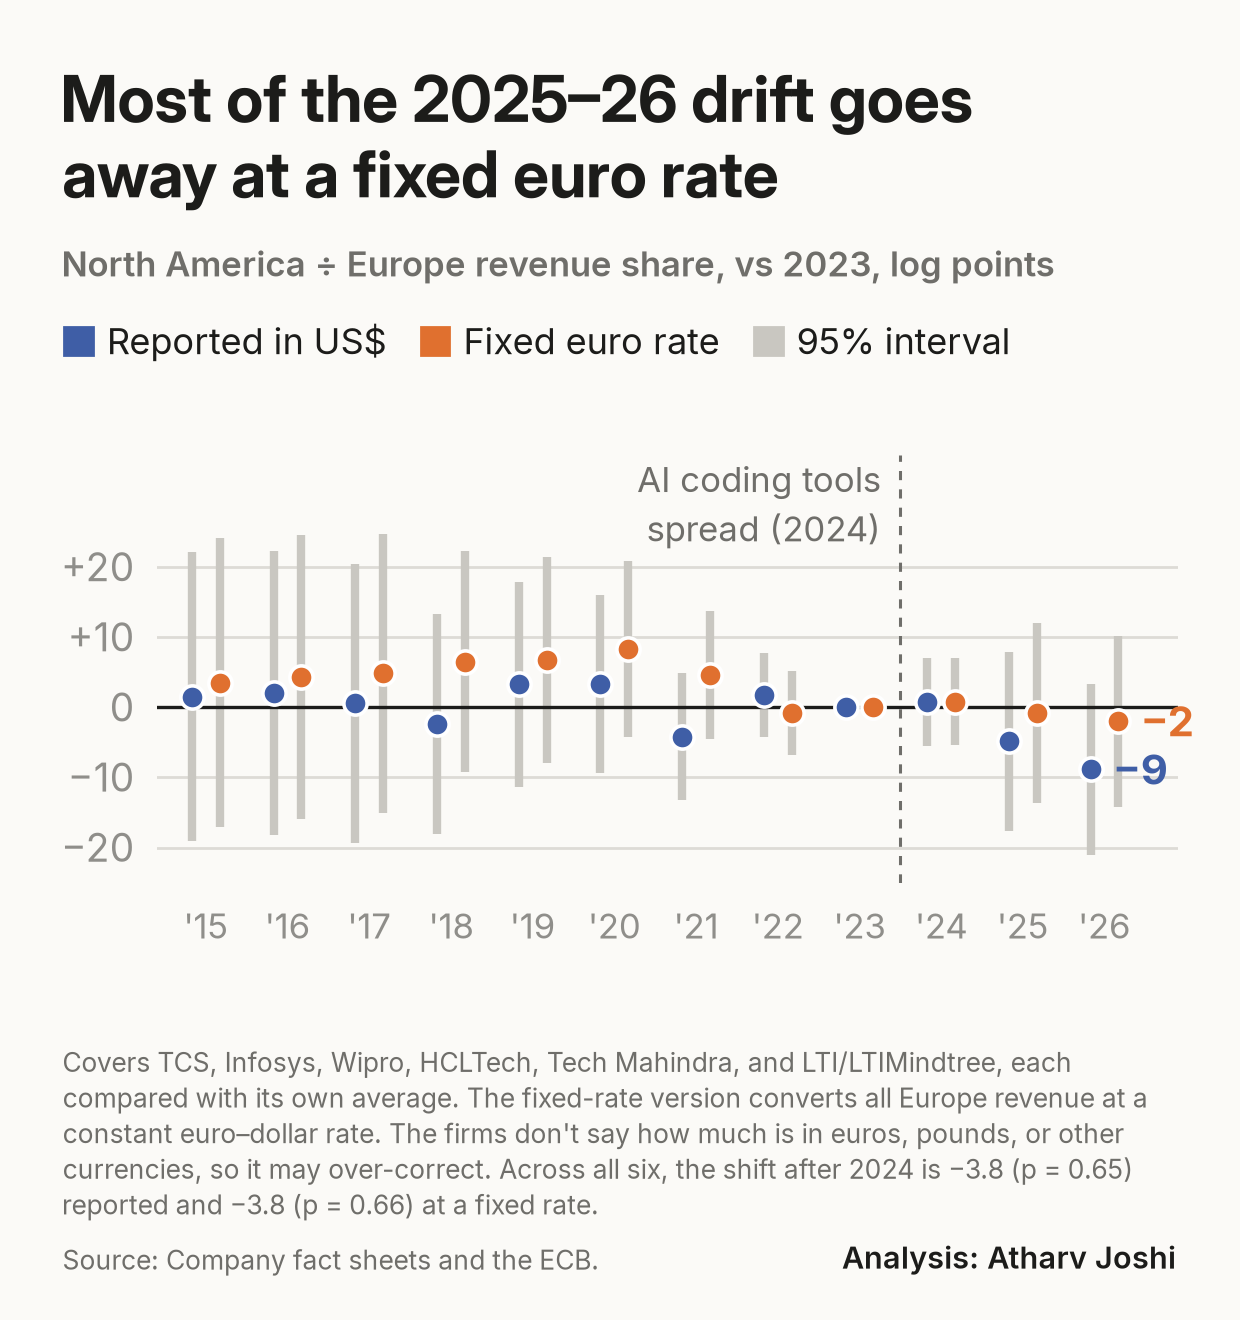
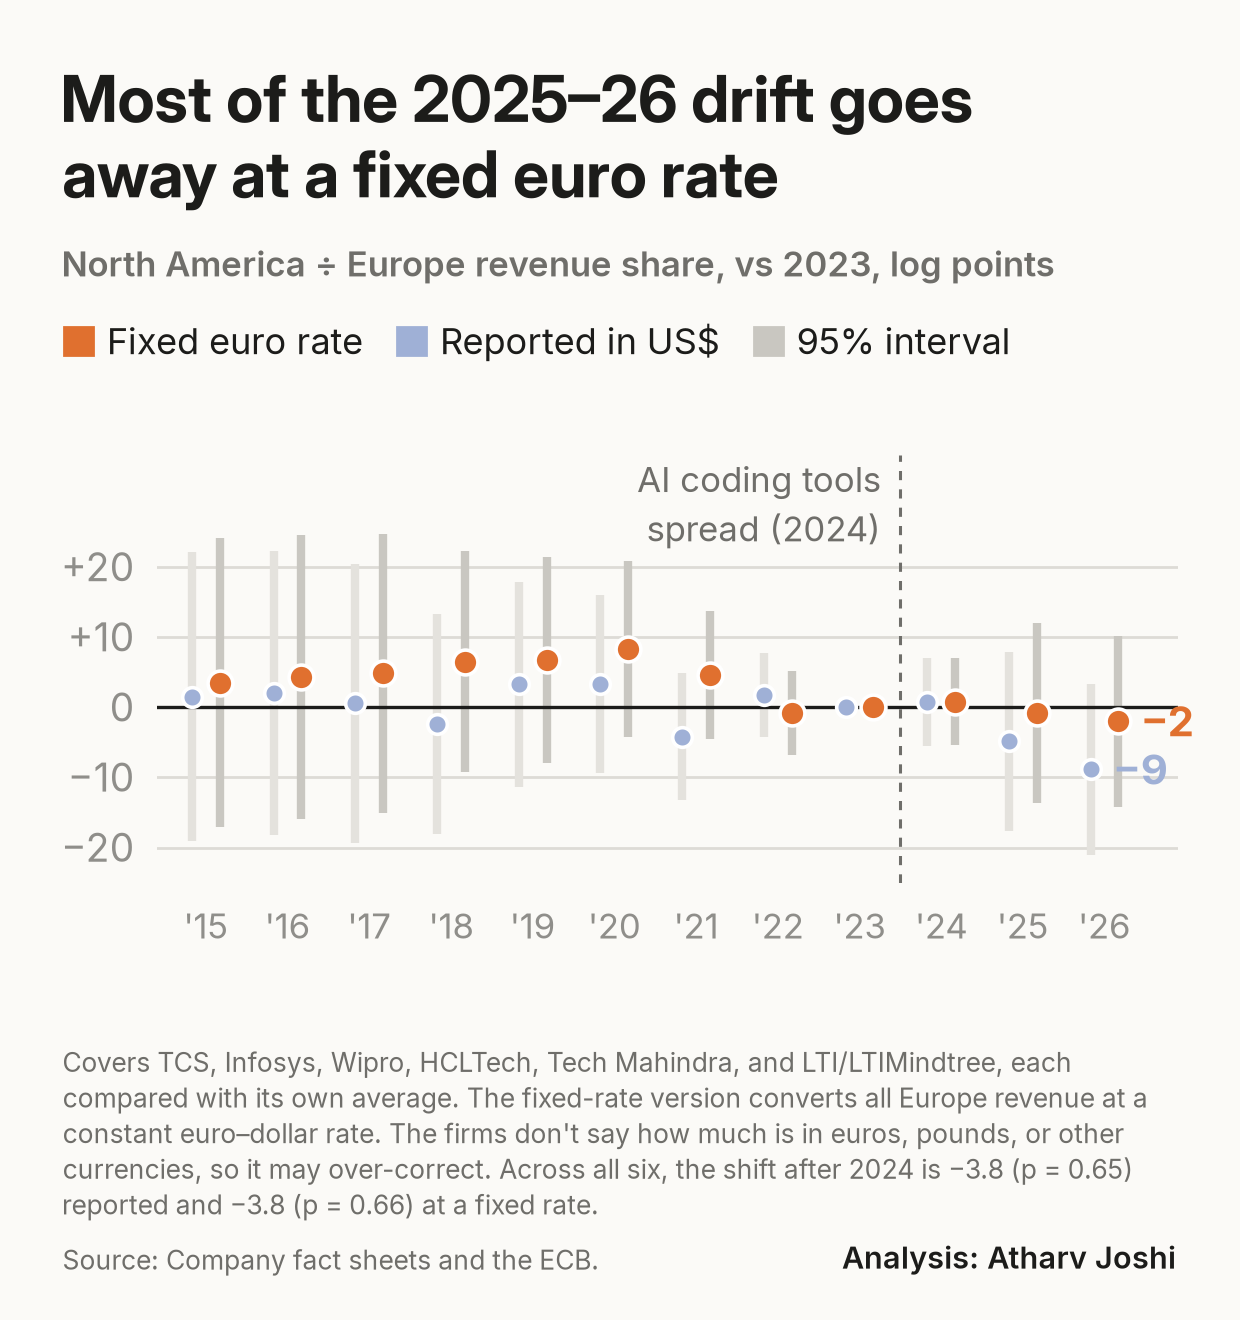
Chart 04: fixed euro rate as main series, reported US$ faded

diff --git a/src/14_ramp_charts.py b/src/14_ramp_charts.py
@@ -135,7 +135,8 @@ RC = pd.read_csv("outputs/h3_currency_regression.csv").query("spec == 'main (pos
 ex = Exhibit(height=6.6)
 ex.title([[("Most of the 2025–26 drift goes", INK)], [("away at a fixed euro rate", INK)]])
 ex.subtitle("North America ÷ Europe revenue share, vs 2023, log points")
-ex.legend([("Reported in US$", NAVY), ("Fixed euro rate", ORANGE), ("95% interval", "#c9c7c1")])
+FADED = "#9fb0d6"   # reported US$: kept for comparison, de-emphasized
+ex.legend([("Fixed euro rate", ORANGE), ("Reported in US$", FADED), ("95% interval", "#c9c7c1")])
 r0, r1 = RC.loc["reported US$"], RC.loc["all Europe in euros (main)"]
 ex.source("Covers TCS, Infosys, Wipro, HCLTech, Tech Mahindra, and LTI/LTIMindtree, each compared with its own average. "
           "The fixed-rate version converts all Europe revenue at a constant euro–dollar rate. The firms don't say how much "
@@ -144,15 +145,15 @@ ex.source("Covers TCS, Infosys, Wipro, HCLTech, Tech Mahindra, and LTI/LTIMindtr
            f"{r1.coef_log_pts:+.1f} (p = {r1.p:.2f}) at a fixed rate.").replace("-", "−"),
           "Source: Company fact sheets and the ECB.", credit=CREDIT)
 ax = ex.axes(left=0.13, right=0.95)
-for lab, color, off in [("reported US$", NAVY, -0.17), ("all Europe in euros (main)", ORANGE, 0.17)]:
+for lab, color, off, band, size in [("reported US$", FADED, -0.17, "#e4e2dd", 50), ("all Europe in euros (main)", ORANGE, 0.17, "#c9c7c1", 80)]:
     E = EC[EC.adjustment == lab]
-    ax.vlines(E.year + off, E.coef - 1.96 * E.se, E.coef + 1.96 * E.se, color="#c9c7c1", lw=3, zorder=1)
-    ax.scatter(E.year + off, E.coef, s=70, color=color, edgecolor="white", lw=1.3, zorder=3)
+    ax.vlines(E.year + off, E.coef - 1.96 * E.se, E.coef + 1.96 * E.se, color=band, lw=3, zorder=1)
+    ax.scatter(E.year + off, E.coef, s=size, color=color, edgecolor="white", lw=1.3, zorder=3)
 ax.axhline(0, color=INK, lw=1.2, zorder=2); ax.set_ylim(-25, 36); ax.set_yticks([-20, -10, 0, 10, 20])
 ax.set_yticklabels(["−20", "−10", "0", "+10", "+20"]); year_ticks(ax, range(2015, 2027)); ax.set_xlim(2014.4, 2026.9)
 ax.spines["bottom"].set_visible(False)
 post_line(ax, 2023.5, ymax=35.5)
-for lab, color, off in [("reported US$", NAVY, -0.17), ("all Europe in euros (main)", ORANGE, 0.17)]:
+for lab, color, off in [("reported US$", FADED, -0.17), ("all Europe in euros (main)", ORANGE, 0.17)]:
     v = EC[(EC.adjustment == lab) & (EC.year == 2026)].coef.iloc[0]
     end_label(ax, 2026 + off, v, f"{v:+.0f}", color=color, dx=8)
 finish(ex, ax, "04_na_vs_europe")

diff --git a/DECISIONS.md b/DECISIONS.md
@@ -57,3 +57,4 @@ This log is append-only. Each entry is dated and gives its reason.
 - **Method** (`src/10b_h3_currency.py`): Europe revenue converted at a constant euro–dollar rate, log(NA/EU_cc) = y + s·log(USD per EUR), with quarterly averages of the ECB monthly reference rate (`data/raw/fx/ecb_eurusd_monthly.csv`, fetched 2026-11-26; FRED timed out). Main: s = 1 (all Europe revenue in euros), chosen by the user. Sensitivity: s = 0.5. Pounds and other currencies are not modeled. **Caveat:** the firms don't report the currency split, and the pound rose less than the euro in 2025, so s = 1 may over-correct. North America revenue is left in US$ (Canada and Latin America are small).
 - **Result:** 2026 event-study coefficient −8.8 (reported) → −5.4 (half) → −2.0 (all in euros). The pooled post-2024 coefficient barely moves (−3.8, p = 0.65 → −3.8, p = 0.66). At a fixed rate the 2015–21 years sit +3 to +8 above 2023, so the remaining average gap comes from 2021–22, before the post period. Verdict unchanged: no support.
 - **Chart 04** now shows reported and fixed-rate estimates side by side. The original `src/10_h3_region.py` outputs are unchanged.
+- **Chart 04 emphasis (2026-11-26):** at the user's request the fixed euro rate is the main series (orange, larger dots). The reported US$ series stays, faded to light blue, because the euro-only adjustment is an assumption (it may over-correct) and US$ was the pre-registered measure.
